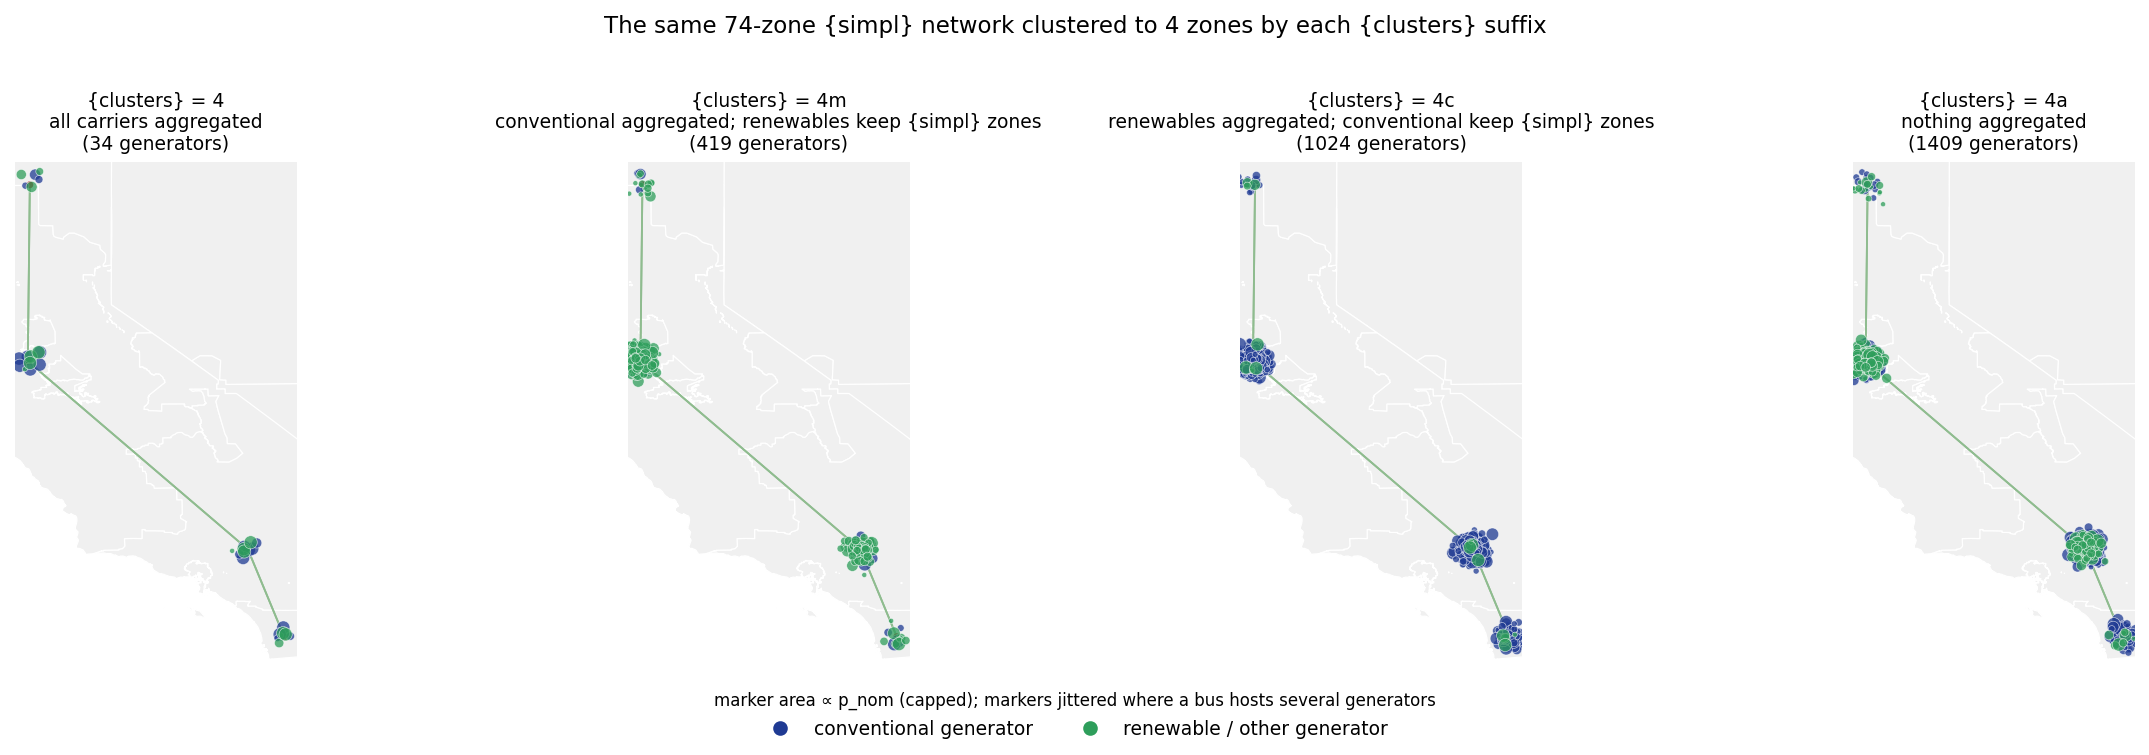
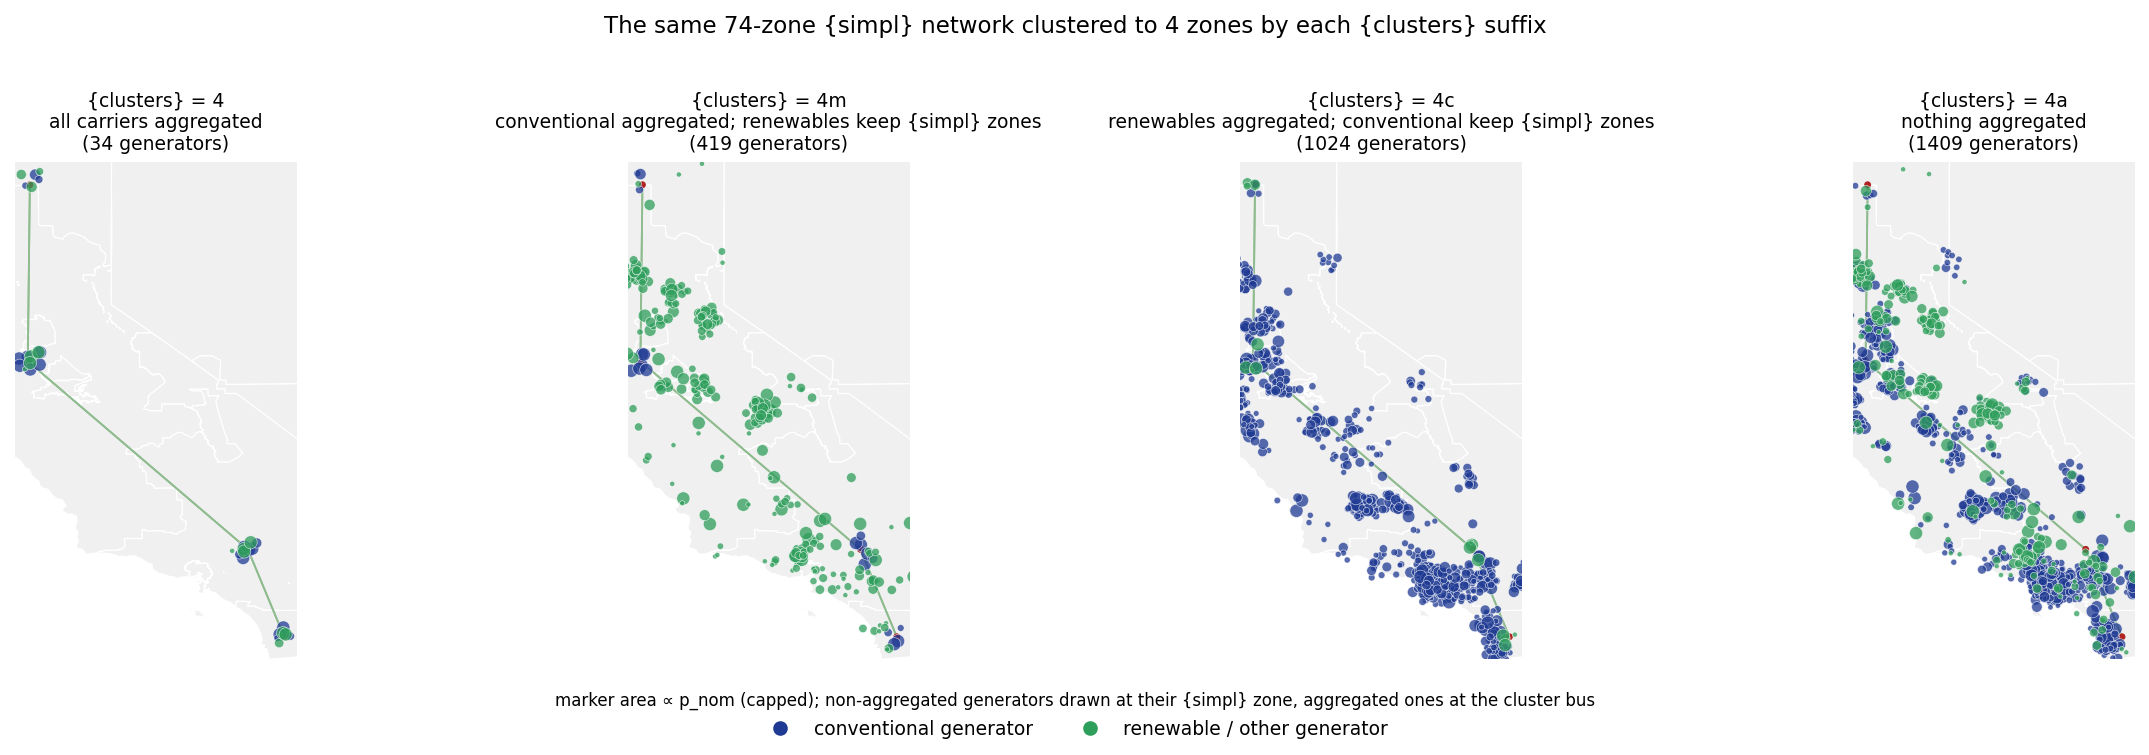
docs figures: draw non-aggregated generators at their {simpl} zone, not the cluster bus
Every generator of a clustered network is attached to a cluster bus, so
plotting by bus piled the m/c/a clouds onto four points and hid the whole
point of the suffixes. Non-aggregated generators keep land_region = their
{simpl} bus; anchor them there so the retained resource resolution is visible.

diff --git a/workflow/scripts/plot_docs_figures.py b/workflow/scripts/plot_docs_figures.py
@@ -105,10 +105,12 @@ def plot_cluster_suffixes(simpl_path, suffix_paths, shapes_path, out_path, conve
     ``suffix_paths`` maps a ``{clusters}`` wildcard value (``"4"``, ``"4m"``,
     ``"4c"``, ``"4a"``) to the clustered network built with it. Every panel
     draws the same clustered buses and branches; what differs is the
-    generators, drawn as markers at their bus coordinates and jittered where a
-    bus hosts more than one, so a carrier that was *not* aggregated shows up as
-    a cloud (its members keep distinct ``{simpl}``-level ``land_region``
-    values) while an aggregated carrier shows up as a single marker per bus.
+    generators. Every generator of the clustered network is attached to a
+    cluster bus, but a carrier that was *not* aggregated keeps one generator per
+    ``{simpl}`` zone, recorded in ``land_region``. Those are drawn at the
+    coordinates of their ``{simpl}`` bus, so they spread over the resource zones
+    they still resolve, while an aggregated carrier collapses to one marker per
+    cluster bus (jittered slightly where several carriers share a bus).
     """
     conventional = set(conventional_carriers or FALLBACK_CONVENTIONAL_CARRIERS)
 
@@ -134,15 +136,24 @@ def plot_cluster_suffixes(simpl_path, suffix_paths, shapes_path, out_path, conve
     span = max(float(buses.x.max() - buses.x.min()), float(buses.y.max() - buses.y.min()), 1e-6)
     jitter = 0.015 * span
 
+    simpl_buses = pypsa.Network(simpl_path).buses
+    n_simpl_buses = len(simpl_buses)
+
     rng = np.random.default_rng(0)
     fig, axes = plt.subplots(1, len(ordered), figsize=(4.3 * len(ordered), 5))
     for ax, (suffix, wildcard, n) in zip(np.atleast_1d(axes), ordered):
         _plot_network_panel(ax, n, shapes, None)
         gens = n.generators
         if len(gens):
-            xy = n.buses.loc[gens.bus, ["x", "y"]].to_numpy(dtype=float)
+            # non-aggregated generators keep land_region = their {simpl} bus: draw them there
+            land_region = gens.get("land_region", pd.Series(index=gens.index, dtype=object)).fillna("")
+            at_simpl = land_region.isin(simpl_buses.index) & (land_region != gens.bus)
+            anchor = gens.bus.where(~at_simpl, land_region)
+            lookup = pd.concat([n.buses[["x", "y"]], simpl_buses[["x", "y"]]])
+            lookup = lookup[~lookup.index.duplicated()]
+            xy = lookup.loc[anchor, ["x", "y"]].to_numpy(dtype=float)
             offsets = rng.normal(scale=jitter, size=xy.shape)
-            crowded = (gens.bus.map(gens.bus.value_counts()) > 1).to_numpy()
+            crowded = (anchor.map(anchor.value_counts()) > 1).to_numpy()
             offsets[~crowded] = 0.0
             xy = xy + offsets
             is_conventional = gens.carrier.isin(conventional).to_numpy()
@@ -164,7 +175,6 @@ def plot_cluster_suffixes(simpl_path, suffix_paths, shapes_path, out_path, conve
             fontsize=9,
         )
 
-    n_simpl_buses = len(pypsa.Network(simpl_path).buses)
     fig.suptitle(
         f"The same {n_simpl_buses}-zone {{simpl}} network clustered to "
         f"{len(buses)} zones by each {{clusters}} suffix",
@@ -182,7 +192,7 @@ def plot_cluster_suffixes(simpl_path, suffix_paths, shapes_path, out_path, conve
         ncol=2,
         frameon=False,
         fontsize=9,
-        title="marker area ∝ p_nom (capped); markers jittered where a bus hosts several generators",
+        title="marker area ∝ p_nom (capped); non-aggregated generators drawn at their {simpl} zone, aggregated ones at the cluster bus",
         title_fontsize=8,
     )
     fig.tight_layout(rect=(0, 0.09, 1, 0.97))

diff --git a/docs/source/model-components.md b/docs/source/model-components.md
@@ -61,13 +61,14 @@ renewable profiles, and generators are built, and finally to 4 `{clusters}` zone
 
 What the `{clusters}` suffix changes. All four panels are the same `{simpl}` network
 reduced to the same cluster buses and branches; only the generators differ. Each marker
-is one generator, drawn at its bus and jittered where a bus hosts several, coloured by
-whether its carrier is conventional or renewable/other and sized by `p_nom`. With a
-plain integer (left) every carrier is aggregated, so each bus carries one marker per
-carrier. With `m` the renewables stay unaggregated and form a cloud at each bus — one
-member per `{simpl}`-level resource zone — while the conventional plants are merged;
-`c` is the mirror image; `a` aggregates nothing and both groups stay as clouds.
-Regenerate with `snakemake docs_figures`.
+is one generator, coloured by whether its carrier is conventional or renewable/other and
+sized by `p_nom`. An aggregated carrier has one generator per cluster bus and is drawn
+there; a carrier that was not aggregated keeps one generator per `{simpl}` resource zone
+(its `land_region`) and is drawn at that zone, even though it is electrically attached to
+the cluster bus. With a plain integer (left) every carrier collapses onto the four buses.
+With `m` the renewables stay spread over their 74 `{simpl}` zones while the conventional
+plants collapse; `c` is the mirror image; `a` aggregates nothing and both groups keep
+`{simpl}` resolution. Regenerate with `snakemake docs_figures`.
 :::
 
 Clustering respects administrative boundaries: with
